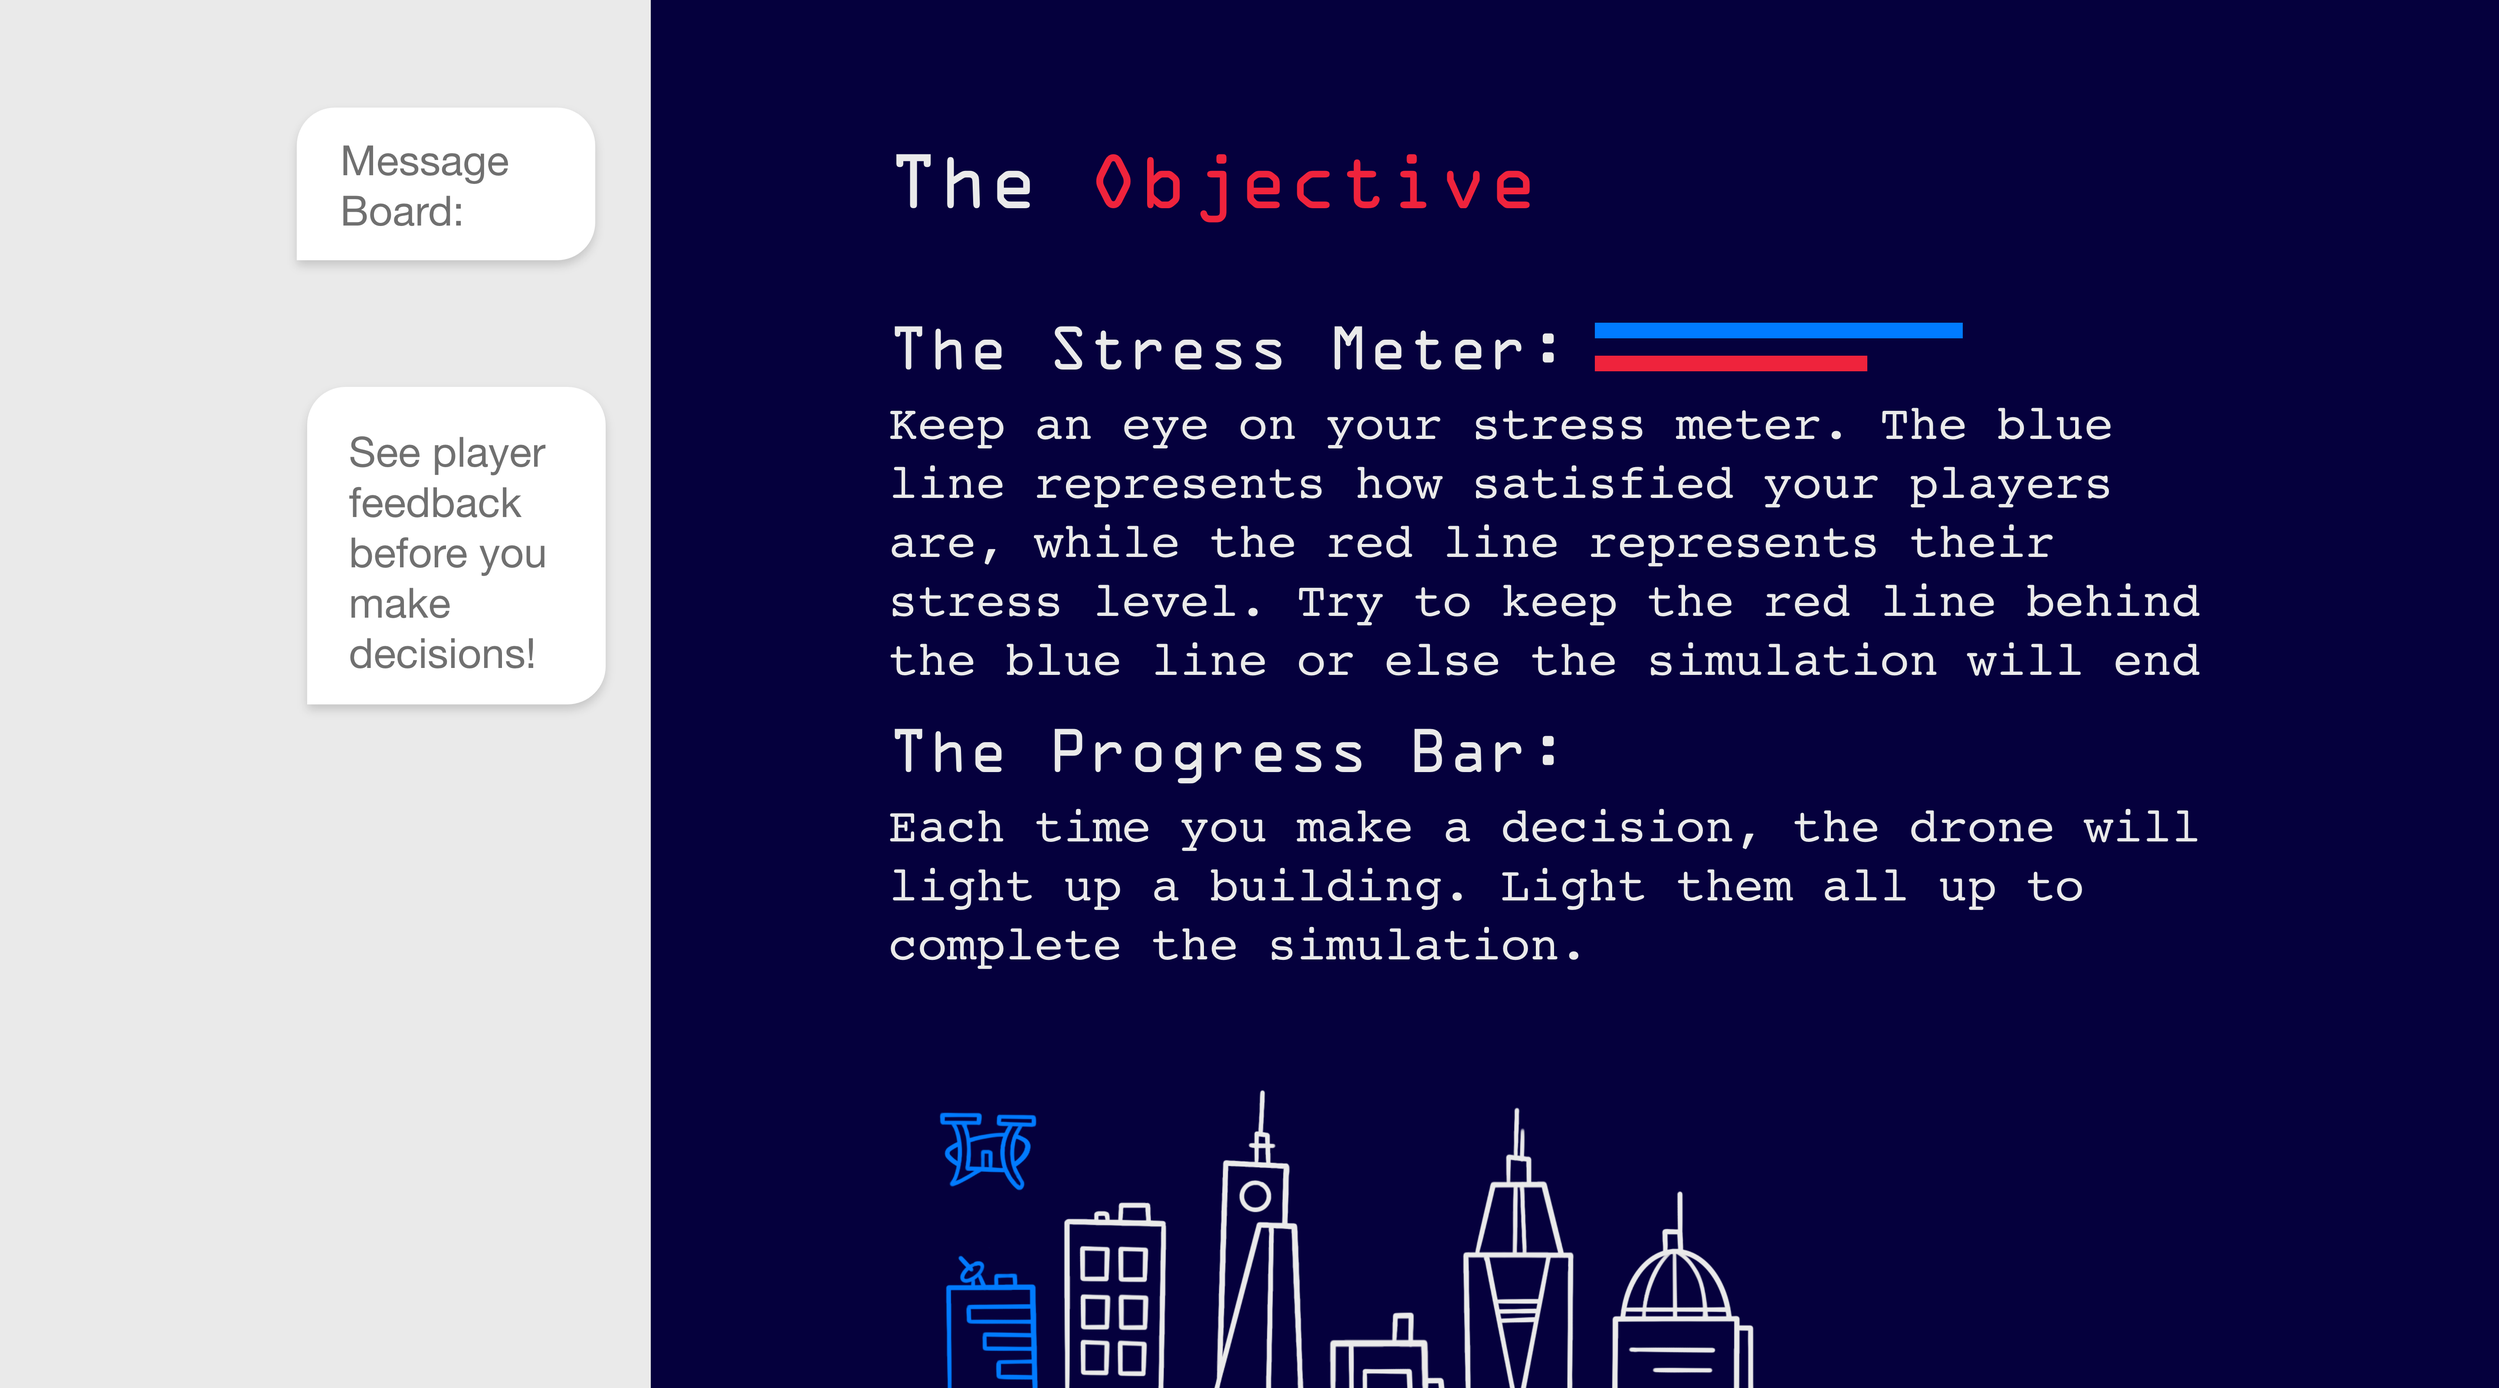
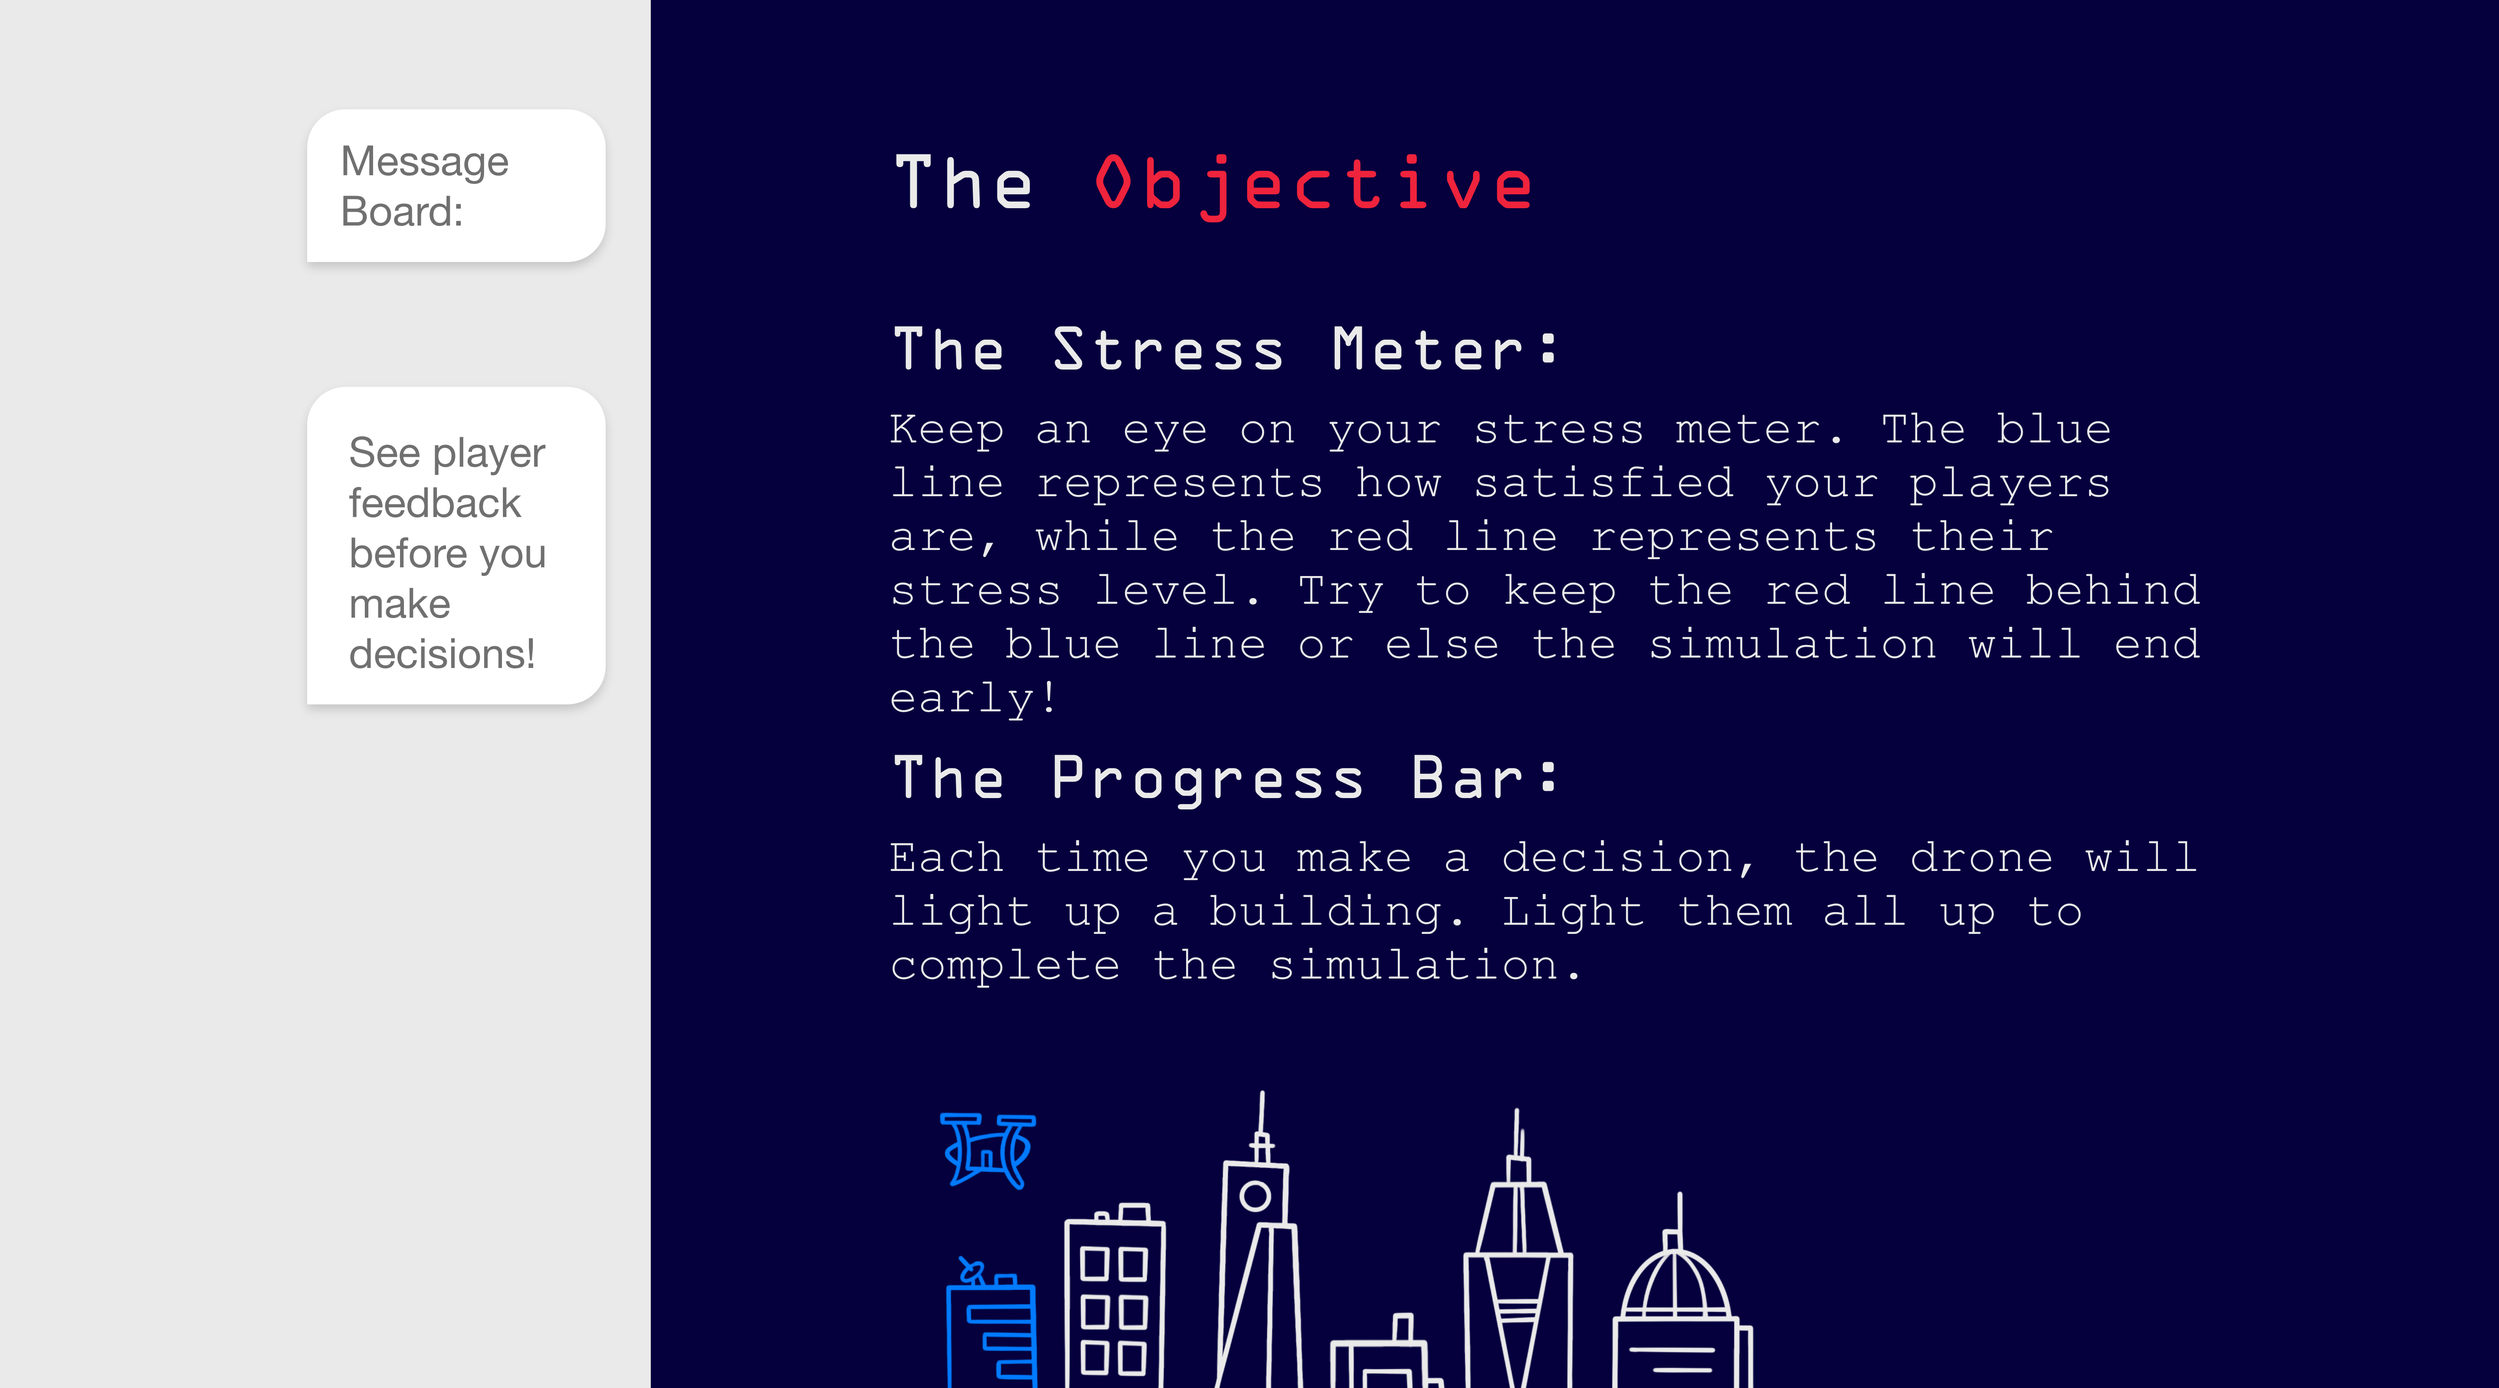
working score manager

Changed region(s): [[0.3438, 0.2188, 0.875, 0.7188], [0.5312, 0.2812, 0.5625, 0.3438], [0.2188, 0.1562, 0.25, 0.1875]]

diff --git a/sketch.js b/sketch.js
@@ -12,6 +12,8 @@ var clickablesManagerEx;           // second manager for non state buttons
 var clickables;                    // an array of clickable objects
 var clickablesEx;
 
+var scoreManager;
+
 var currentStateName = "";
 var stateImage;
 
@@ -24,6 +26,7 @@ var bodyFont;
 var playerNames = [];
 var playerDescriptions = [];
 var playerIndex = 0;
+var choiceIndex = 2;
 
 // PNG filenames
 var unselectedPNGs = ["assets/player_icons/ceo_unselected.png", "assets/player_icons/mayor_unselected.png", "assets/player_icons/martha_unselected.png", "assets/player_icons/chief_unselected.png", "assets/player_icons/mike_unselected.png"];
@@ -44,6 +47,8 @@ function preload() {
   clickablesManager = new ClickableManager('data/clickableLayout.csv');
   clickablesManagerEx = new ClickableManager('data/clickableLayoutExtra.csv');
   complexStateMachine = new ComplexStateMachine("data/interactionTable.csv", "data/clickableLayout.csv");
+  scoreManager = new ScoreManager();
+
   for ( let i = 0 ; i < selectedPNGs.length ; i ++) {
     loadedPNGs.push(loadImage(unselectedPNGs[i]));
     loadedPNGs.push(loadImage(selectedPNGs[i]));
@@ -81,11 +86,95 @@ function draw() {
   drawUI();
 }
 
+// ======================== DRAWING CODE ======================== //
+
+function drawBackground() {
+  background(color(bkColor));
+}
+
+function drawImage(img) {
+  if( img !== undefined ) {
+    image(img, width/2, height/2, width, height);
+  }  
+}
+
+function drawOther() {
+   // Draw mood — if not on Splash or Instructions screen  
+  if( currentStateName == "Splash") {
+    drawSplash();  
+  } else if (currentStateName === "Description") {
+    drawDescription();
+  } else if (currentStateName === "MeetThePlayers") {
+    drawPlayers();
+  } else if (currentStateName === "Instructions") {
+    drawInstructions();
+  } else if (currentStateName.startsWith("Stage")) {
+    drawStage();
+  } else if (currentStateName === "End") {
+    drawEnd();
+  }
+}
+
+// ------------ DRAW STATES --------------
+
+function drawSplash() {
+  // do nothing yet
+}
+
+function drawDescription() {
+  writeTextInBox("Rescue Aid Drones:", "Drones designed to help in the recovery of people from any dangerous situations that require immediate evacuation/rescue. The purpose of these drones is not to rescue the person itself, but rather to assist a rescue operation so that it can go as smoothly as possible.")
+}
+
+function addPlayers() {
+  // write player data to arrays
+  playerNames = ["RADtech CEO", "Mayor of LA", "Martha (Retired Schoolteacher)", "Fire Chief", "Mike (Construction Worker)"];
+  playerDescriptions.push("This is the brilliant young woman who designed and manufactures these Rescue Aid Drones (hence the name RADtech). She wants to help people with her invention, but she is mainly focused on making money to fund her many other business ventures.");
+  playerDescriptions.push("The mayor comes from a wealthy background and has been criticized for favoring the upper class in all of his major decisions during his term. However, being 61 years old himself, he is also very mindful of the elderly population living in his city.");
+
+}
+
+function drawPlayers() {
+  exHoverEnable = true;
+
+  let titleBuf = playerNames[playerIndex] + ":";
+  let stringBuf = playerDescriptions[playerIndex];
+  writeTextInBox(titleBuf, stringBuf);
+
+}
+
+function drawInstructions() {
+  exHoverEnable = false;
+  exDefaultState = true;
+  scoreManager.drawScore(930, 185);
+
+}
+
+function drawStage() {
+  console.log("drawStage()");
+  // get choices from state
+  let choices = complexStateMachine.getState(currentStateName).texts;
+  writeChoices(choices[0], choices[1]);
+
+  complexStateMachine.scoreManager.drawScore(618,116);
+}
+
+function drawEnd() {
+  console.log("drawEnd()");
+}
+
+//-- right now, it is just the clickables
+function drawUI() {
+  clickablesManager.draw();
+  if( currentStateName !== "Splash") {
+    clickablesManagerEx.draw();
+  }
+}
+
 // ======================== Clickables ======================== //
 
 function setupClickables() {
   // All clickables to have same effects
-  for( let i = 0; i < clickables.length; i++ ) {
+  for( let i = 0; i < 2; i++ ) {
     clickables[i].onHover = clickableButtonHover;
     clickables[i].onOutside = clickableButtonOnOutside;
     clickables[i].onPress = clickableButtonPressed;
@@ -94,6 +183,15 @@ function setupClickables() {
     clickables[i].width = 250;
     clickables[i].textFont = bodyFont;
     clickables[i].noFill = true;
+  }
+  for( let i = 2 ; i < 4 ; i++) {
+    clickables[i].onHover = choiceHover;
+    clickables[i].onOutside = choiceOnOutside;
+    clickables[i].onPress = clickableButtonPressed;
+    clickables[i].color = "#82809E";
+    // clickables[i].onPress = choicePressed;
+    clickables[i].width = 42;
+    clickables[i].height = 42;
   }
 
   for( let i = 0; i < clickablesEx.length; i++ ) {
@@ -119,7 +217,8 @@ clickableButtonHover = function () {
   }
 }
 
-// color a light gray if off
+// Continue button handlers
+
 clickableButtonOnOutside = function () {
   // backto our gray color
   if (currentStateName === "Splash") {
@@ -136,6 +235,23 @@ clickableButtonOnOutside = function () {
 clickableButtonPressed = function() {
   complexStateMachine.clickablePressed(this.name);
 }
+
+// Choice button handlers
+
+choiceHover = function() {
+  choiceIndex = this.id;
+  this.color = "#FFFFFF";
+}
+
+choiceOnOutside = function() {
+  if ( this.id == choiceIndex) {
+    this.color = "#FFFFFF";
+  } else {
+    this.color = "#82809E";
+  }
+}
+
+// Extra button handlers (for player icons)
 
 exButtonOnOutside = function () {
   let exId = this.id * 3;
@@ -175,82 +291,6 @@ function stateChanged(newStateName) {
     console.log(currentStateName);
 } 
 
-// ======================== DRAWING CODE ======================== //
-
-function drawBackground() {
-  background(color(bkColor));
-}
-
-function drawImage(img) {
-  if( img !== undefined ) {
-    image(img, width/2, height/2, width, height);
-  }  
-}
-
-function drawOther() {
-   // Draw mood — if not on Splash or Instructions screen  
-  if( currentStateName == "Splash") {
-    drawSplash();  
-  } else if (currentStateName === "Description") {
-    drawDescription();
-  } else if (currentStateName === "MeetThePlayers") {
-    drawPlayers();
-  } else if (currentStateName === "Instructions") {
-    drawInstructions();
-  } else if (currentStateName === "Stage") {
-    drawStage();
-  } else if (currentStateName === "End") {
-    drawEnd();
-  }
-}
-
-// ------------ DRAW STATES --------------
-
-function drawSplash() {
-  // do nothing yet
-}
-
-function drawDescription() {
-  clickablesManagerEx.draw();
-  writeTextInBox("Rescue Aid Drones:", "Drones designed to help in the recovery of people from any dangerous situations that require immediate evacuation/rescue. The purpose of these drones is not to rescue the person itself, but rather to assist a rescue operation so that it can go as smoothly as possible.")
-}
-
-function addPlayers() {
-  // write player data to arrays
-  playerNames = ["RADtech CEO", "Mayor of LA", "Martha (Retired Schoolteacher)", "Fire Chief", "Mike (Construction Worker)"];
-  playerDescriptions.push("This is the brilliant young woman who designed and manufactures these Rescue Aid Drones (hence the name RADtech). She wants to help people with her invention, but she is mainly focused on making money to fund her many other business ventures.");
-  playerDescriptions.push("The mayor comes from a wealthy background and has been criticized for favoring the upper class in all of his major decisions during his term. However, being 61 years old himself, he is also very mindful of the elderly population living in his city.");
-
-}
-
-function drawPlayers() {
-  exHoverEnable = true;
-
-  let titleBuf = playerNames[playerIndex] + ":";
-  let stringBuf = playerDescriptions[playerIndex];
-  clickablesManagerEx.draw();
-  writeTextInBox(titleBuf, stringBuf);
-}
-
-function drawInstructions() {
-  exHoverEnable = false;
-  exDefaultState = true;
-  clickablesManagerEx.draw();
-}
-
-function drawStage() {
-  console.log("drawStage()");
-}
-
-function drawEnd() {
-  console.log("drawEnd()");
-}
-
-//-- right now, it is just the clickables
-function drawUI() {
-  clickablesManager.draw();
-}
-
 // ======================== HELPER FUNCTIONS ======================== //
 
 function writeTextInBox(titleBuf, stringBuf) {
@@ -263,4 +303,33 @@ function writeTextInBox(titleBuf, stringBuf) {
   textFont(bodyFont);
   text(stringBuf, 280, 340, 1000, 400);
   pop();
+}
+
+function writeInstructions() {
+  push();
+  fill("#EAEAEA");
+  textSize(36);
+  textFont(titleFont);
+  text(titleBuf, 280, 280, 1000, 50);
+  textSize(34);
+  textFont(bodyFont);
+  text(stringBuf, 280, 340, 1000, 400);
+  pop();
+}
+
+function writeChoices(choice1, choice2) {
+  let colors = ["#FFFFFF", "#82809E"];
+  if( choiceIndex == 3 ) {
+    colors = ["#82809E", "#FFFFFF"];
+  }
+  push();
+  textFont(bodyFont);
+  textSize(24);
+  textAlign(RIGHT);
+  fill(colors[0]);
+  text(choice1,900, 590, 380, 25);
+  fill(colors[1]);
+  text(choice2,900, 650, 380, 25);
+  pop();
+
 }

diff --git a/p5.complexStateManager.js b/p5.complexStateManager.js
@@ -33,6 +33,7 @@ class ComplexStateMachine {
         this.stateNames = []; 
         this.setImageFilenameCallback = null;
         this.clickableArray = null;
+        this.scoreManager = new ScoreManager();
 
         if( clickableLayoutFilename === null ) {
             this.clickableTable = null;
@@ -77,8 +78,11 @@ class ComplexStateMachine {
             // add other info
             let nextState = this.statesTable.getString(i, 'NextState');
             let clickableName = this.statesTable.getString(i, 'ClickableName');
+            let satisfaction = eval(this.statesTable.getString(i, 'Satisfaction'));
+            let stress =  eval(this.statesTable.getString(i, 'Stress'));
+            let text = this.statesTable.getString(i, 'Text');
 
-            this.states[stateArrayIndex].addInteraction(clickableName, nextState);
+            this.states[stateArrayIndex].addInteraction(clickableName, nextState, satisfaction, stress, text);
 
         }
         
@@ -94,15 +98,33 @@ class ComplexStateMachine {
         return this.hasValidStates;
     }
 
-    // a clickable was pressed, look for it in the interaction table
+    // EDITED: Handle clickable press
     clickablePressed(clickableName) {
         let cIndex = this.states[this.currentState].clickableNames.indexOf(clickableName); 
-        console.log(cIndex);
+        console.log("cIndex: " + cIndex);
         if( cIndex !== -1 ) {
-            let nextState = this.states[this.currentState].nextStates[cIndex]; 
+            let nextState = this.states[this.currentState].nextStates[cIndex];
+            // ADDED : if this is a choice button, increase the score according to the stored data 
+            if (this.stateNames[this.currentState].startsWith("Stage")) {
+                let satisIncrease = this.states[this.currentState].satisIncrease[cIndex];
+                let stressIncrease = this.states[this.currentState].stressIncrease[cIndex];
+                console.log("satisfaction increase : " + satisIncrease);
+                console.log("stress increase: " + stressIncrease);
+                this.scoreManager.addSatisfaction(satisIncrease / 100);
+                this.scoreManager.addStress(stressIncrease/ 100);
+            } 
+            // else if the restart button is clicked, reset the scores
+            else if (nextState == "Splash") {
+                this.scoreManager.reset();
+            }
             console.log(nextState);
             this.newState(nextState);
         }
+    }
+
+    getState(stateName) {
+        let index = this.stateNames.indexOf(stateName); 
+        return this.states[index];
     }
 
     // set new state, make callbacks
@@ -148,10 +170,49 @@ class State {
         this.imageFilename = imageFilename;
         this.clickableNames = [];
         this.nextStates = [];
+        this.satisIncrease = [];
+        this.stressIncrease = [];
+        this.texts = [];
     }
 
-    addInteraction(clickableName, nextState) {
+    addInteraction(clickableName, nextState, satisfaction, stress, text) {
         this.clickableNames.push(clickableName);
         this.nextStates.push(nextState);
+        this.satisIncrease.push(satisfaction);
+        this.stressIncrease.push(stress);
+        this.texts.push(text);
+    }
+}
+
+class ScoreManager {
+    constructor() {
+        // 20 total units
+        this.satisfaction = .15;
+        this.stress = .1;
+        this.gameOver = false;
+    }
+
+    addSatisfaction(amount) {
+        this.satisfaction += amount;
+    }
+
+    addStress(amount) {
+        this.stress += amount;
+        if ( this.stress > this.satisfaction) {
+            this.gameOver = true;
+        }
+    }
+
+    reset() {
+        this.satisfaction = .15;
+        this.stress = .1;
+        this.gameOver = false;
+    }
+
+    drawScore(xpos, ypos) {
+        fill("#007BFF");
+        rect(xpos, ypos, this.satisfaction * 700, 10);
+        fill("#EF233C");
+        rect(xpos, ypos + 20, this.stress * 700, 10);
     }
 }
